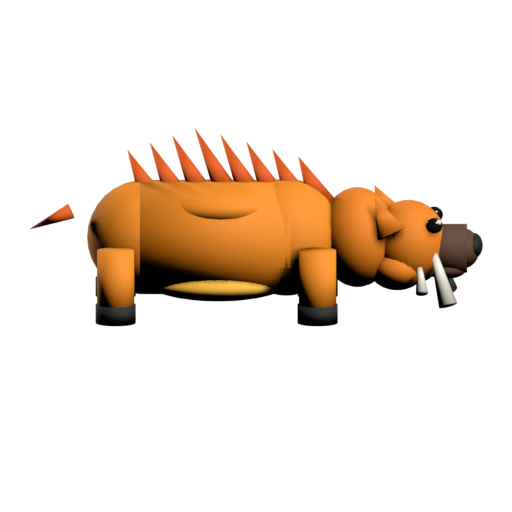
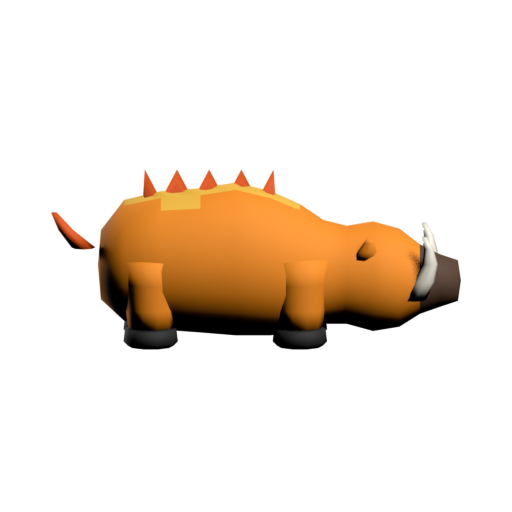
arte: jabali modelado por secciones (malla continua, cero esferas)
El anterior era un monton de esferas pegadas y se veia el armazon. Ahora la malla
se genera como tubos: el cuerpo es UN solo tubo continuo de la grupa al hocico con
radio y altura variables por seccion, y patas, colmillos, orejas, cresta, cola y
ojos son tubos que se estrechan (helper con tres ejes X/Z/Y).

- 1068 caras / 918 vertices, superficie continua sin costuras.
- Materiales por cara: hocico oscuro y panza clara asignados por posicion/normal.
- Cuerpo compactado (era un autobus) y patas mas gruesas.
- Se descarta la via cilindro+esferas: el loft por secciones da la silueta
  controlada y caras limpias.

Changed region(s): [[0.0625, 0.25, 0.9688, 0.6875]]

diff --git a/tools/boar_wow.py b/tools/boar_wow.py
@@ -1,7 +1,13 @@
-"""Jabalí estilo Warcraft v2 — arregla dos fallos de la v1:
-  1) el view transform AgX de Blender 4+ desaturaba el naranja (salía beige) -> Standard
-  2) el encuadre cortaba la cabeza -> se mide el render y se reajusta cámara y zoom
-Uso: blender --background --factory-startup --python tools/boar_wow.py
+"""Jabalí estilo Warcraft — modelado por SECCIONES (ni una esfera).
+
+La malla se genera como tubos: el CUERPO es un solo tubo continuo que va de la
+grupa al hocico (la altura y el radio cambian sección a sección), y las patas,
+colmillos, orejas, cresta y cola son tubos que se estrechan. Tres ejes:
+  eje='X' -> tubos horizontales (cuerpo, colmillos, cola)
+  eje='Z' -> tubos verticales (patas, cascos, orejas)
+  eje='Y' -> discos cortos hacia los lados (ojos)
+
+  blender --background --factory-startup --python tools/boar_wow.py
 """
 import bpy, math, os
 from mathutils import Vector
@@ -20,115 +26,184 @@ def mat(name, rgb, rough=0.75):
     return m
 
 
-# La referencia es naranja dorado saturado; los valores van en lineal, así que
-# el naranja "de verdad" pide el canal rojo casi a tope y el azul casi a cero.
 M_BODY = mat("body", (1.00, 0.30, 0.012))      # naranja dorado
-M_BELLY = mat("belly", (1.00, 0.52, 0.05))     # vientre más claro
-M_CREST = mat("crest", (0.85, 0.12, 0.004))    # cresta naranja-roja
-M_HEAD = mat("head", (0.95, 0.26, 0.01))
-M_SNOUT = mat("snout", (0.12, 0.055, 0.03))    # hocico marrón oscuro
-M_NOSE = mat("nose", (0.01, 0.01, 0.01))
+M_BELLY = mat("belly", (1.00, 0.56, 0.06))     # vientre claro
+M_CREST = mat("crest", (0.80, 0.10, 0.004))    # cresta naranja-roja
+M_SNOUT = mat("snout", (0.10, 0.05, 0.028))    # hocico oscuro
 M_TUSK = mat("tusk", (1.0, 0.95, 0.82), 0.3)   # colmillos marfil
 M_HOOF = mat("hoof", (0.012, 0.012, 0.012))
 M_EYE = mat("eye", (0.01, 0.008, 0.006), 0.15)
 
 
-def add(kind, name, loc, scale, rot=(0, 0, 0), material=None):
-    if kind == "sphere":
-        bpy.ops.mesh.primitive_uv_sphere_add(segments=28, ring_count=16, radius=0.5, location=loc)
-    elif kind == "cyl":
-        bpy.ops.mesh.primitive_cylinder_add(vertices=32, radius=0.5, depth=1, location=loc)
-    elif kind == "cone":
-        bpy.ops.mesh.primitive_cone_add(vertices=16, radius1=0.5, radius2=0.0, depth=1, location=loc)
-    ob = bpy.context.object
-    ob.name = name
-    ob.scale = scale
-    ob.rotation_euler = rot
-    if material:
-        ob.data.materials.append(material)
+def tubo(nombre, secciones, lados=14, materiales=None, eje='X'):
+    """Malla continua: une anillos consecutivos.
+
+    eje='X': secciones (x, y, z, ry, rz)  -> anillo en el plano YZ
+    eje='Z': secciones (x, y, z, rx, ry)  -> anillo en el plano XY
+    eje='Y': secciones (x, y, z, rx, rz)  -> anillo en el plano XZ
+    """
+    verts, caras = [], []
+    n = len(secciones)
+    for (a_, b_, c_, r1, r2) in secciones:
+        for k in range(lados):
+            ang = 2 * math.pi * k / lados
+            s, co = math.sin(ang), math.cos(ang)
+            if eje == 'X':
+                verts.append((a_, b_ + r1 * s, c_ + r2 * co))
+            elif eje == 'Z':
+                verts.append((a_ + r1 * co, b_ + r2 * s, c_))
+            else:  # 'Y'
+                verts.append((a_ + r1 * co, b_, c_ + r2 * s))
+    for i in range(n - 1):
+        for k in range(lados):
+            k2 = (k + 1) % lados
+            caras.append((i * lados + k, i * lados + k2,
+                          (i + 1) * lados + k2, (i + 1) * lados + k))
+    # puntas: un vértice en el centro de la primera y de la última sección
+    p0, p1 = secciones[0], secciones[-1]
+    d = 0.02
+    punta0 = {'X': (p0[0] - d, p0[1], p0[2]), 'Z': (p0[0], p0[1], p0[2] + d),
+              'Y': (p0[0], p0[1] - d, p0[2])}[eje]
+    punta1 = {'X': (p1[0] + d, p1[1], p1[2]), 'Z': (p1[0], p1[1], p1[2] - d),
+              'Y': (p1[0], p1[1] + d, p1[2])}[eje]
+    i0 = len(verts); verts.append(punta0)
+    i1 = len(verts); verts.append(punta1)
+    for k in range(lados):
+        k2 = (k + 1) % lados
+        caras.append((i0, k2, k))
+        caras.append((i1, (n - 1) * lados + k, (n - 1) * lados + k2))
+
+    me = bpy.data.meshes.new(nombre)
+    me.from_pydata(verts, [], caras)
+    me.validate()
+    me.update()
+    ob = bpy.data.objects.new(nombre, me)
+    bpy.context.collection.objects.link(ob)
+    for m in (materiales or []):
+        ob.data.materials.append(m)
+    for p in ob.data.polygons:
+        p.use_smooth = True
     return ob
 
 
-parts = []
+partes = []
 
-# --- cuerpo TUBULAR continuo: un cilindro con los dos extremos redondeados.
-# (con esferas sueltas quedaban costuras y se veía como un saco de bolas)
-parts.append(add("cyl", "body", (0.0, 0, 0.50), (0.80, 0.86, 1.06),
-                 rot=(0, math.radians(90), 0), material=M_BODY))
-parts.append(add("sphere", "front", (0.50, 0, 0.50), (0.80, 0.86, 0.82), material=M_BODY))
-parts.append(add("sphere", "rear", (-0.50, 0, 0.50), (0.80, 0.84, 0.80), material=M_BODY))
-parts.append(add("sphere", "hump", (0.04, 0, 0.74), (0.96, 0.80, 0.32), material=M_BODY))
-parts.append(add("sphere", "belly", (0.02, 0, 0.18), (1.00, 0.80, 0.24), material=M_BELLY))
+# ── CUERPO: un solo tubo de la grupa al hocico ──────────────────────────────
+# (x, y, z, ry, rz): la z arquea el lomo y baja hacia el hocico
+cuerpo_secs = [
+    (-0.86, 0, 0.52, 0.22, 0.24),   # grupa
+    (-0.70, 0, 0.55, 0.36, 0.42),   # anca
+    (-0.45, 0, 0.55, 0.42, 0.48),
+    (-0.18, 0, 0.55, 0.44, 0.50),   # lomo
+    (0.06, 0, 0.56, 0.45, 0.53),    # cruz (joroba)
+    (0.30, 0, 0.53, 0.43, 0.50),
+    (0.50, 0, 0.50, 0.38, 0.44),    # pecho
+    (0.66, 0, 0.47, 0.31, 0.36),    # cuello
+    (0.82, 0, 0.45, 0.30, 0.34),
+    (1.00, 0, 0.44, 0.34, 0.38),    # cabeza
+    (1.18, 0, 0.43, 0.31, 0.34),
+    (1.32, 0, 0.42, 0.23, 0.24),    # arranque del hocico
+    (1.46, 0, 0.41, 0.18, 0.18),
+    (1.58, 0, 0.41, 0.14, 0.14),    # nariz
+]
+cuerpo = tubo("cuerpo", cuerpo_secs, lados=20, materiales=[M_BODY, M_SNOUT, M_BELLY])
+for p in cuerpo.data.polygons:
+    p.material_index = 0
+    if p.center.x > 1.30:                       # hocico oscuro
+        p.material_index = 1
+    elif p.center.x < 0.55 and p.normal.z < -0.86:   # solo la panza, apenas visible
+        p.material_index = 2
+partes.append(cuerpo)
 
-# --- cresta erizada: púas grandes y separadas, el rasgo que más lo identifica
-for i in range(8):
-    t = -0.52 + i * 0.17
-    alto = 0.62 - abs(t) * 0.34
-    parts.append(add("cone", f"crest{i}", (t, 0, 0.72 + alto * 0.46), (0.20, 0.13, alto),
-                     rot=(0, math.radians(-26), 0), material=M_CREST))
+# ── CRESTA: tubo fino sobre el lomo con radios alternos (los "dientes") ────
+cresta_secs = []
+i = 0
+x = -0.56
+while x <= 0.34:
+    pico = 0.32 if i % 2 == 0 else 0.11
+    cresta_secs.append((x, 0, 0.86, 0.07, pico))
+    x += 0.11
+    i += 1
+partes.append(tubo("cresta", cresta_secs, lados=8, materiales=[M_CREST]))
 
-# --- cuello y cabeza, claramente diferenciados del cuerpo
-parts.append(add("sphere", "neck", (1.00, 0, 0.50), (0.54, 0.72, 0.70), material=M_HEAD))
-parts.append(add("sphere", "head", (1.36, 0, 0.46), (0.54, 0.62, 0.60), material=M_HEAD))
-parts.append(add("sphere", "cheek", (1.28, 0, 0.30), (0.42, 0.64, 0.34), material=M_HEAD))
+# ── PATAS verticales + cascos ──────────────────────────────────────────────
+for px in (0.50, -0.52):
+    for py in (0.24, -0.24):
+        partes.append(tubo(f"pata{px}{py}", [
+            (px, py, 0.60, 0.21, 0.20),      # dentro del tronco
+            (px, py, 0.44, 0.19, 0.19),
+            (px, py, 0.26, 0.17, 0.17),
+            (px, py, 0.13, 0.155, 0.155),
+        ], lados=10, materiales=[M_BODY], eje='Z'))
+        partes.append(tubo(f"casco{px}{py}", [
+            (px, py, 0.12, 0.175, 0.175),
+            (px, py, 0.03, 0.185, 0.185),
+            (px, py, 0.00, 0.155, 0.155),
+        ], lados=10, materiales=[M_HOOF], eje='Z'))
 
-# --- hocico largo y oscuro, con nariz negra y mandíbula
-parts.append(add("cyl", "snout", (1.60, 0, 0.42), (0.34, 0.36, 0.34),
-                 rot=(0, math.radians(90), 0), material=M_SNOUT))
-parts.append(add("sphere", "snouttip", (1.74, 0, 0.42), (0.24, 0.34, 0.28), material=M_SNOUT))
-parts.append(add("sphere", "nose", (1.82, 0, 0.44), (0.12, 0.26, 0.17), material=M_NOSE))
-parts.append(add("sphere", "jaw", (1.62, 0, 0.28), (0.30, 0.28, 0.15), material=M_SNOUT))
+# ── COLMILLOS: suben curvando hacia fuera ──────────────────────────────────
+for s in (1, -1):
+    partes.append(tubo(f"colmillo{s}", [
+        (1.28, 0.19 * s, 0.31, 0.085, 0.085),
+        (1.35, 0.22 * s, 0.44, 0.070, 0.070),
+        (1.39, 0.25 * s, 0.57, 0.052, 0.052),
+        (1.38, 0.27 * s, 0.68, 0.032, 0.032),
+        (1.35, 0.28 * s, 0.76, 0.015, 0.015),
+    ], lados=8, materiales=[M_TUSK], eje='Z'))
 
-# --- ojos pequeños y juntos con brillo
+# ── OREJAS: pequeñas, aplanadas y hacia atrás ──────────────────────────────
 for s_ in (1, -1):
-    parts.append(add("sphere", f"eye{s_}", (1.54, 0.23 * s_, 0.62), (0.12, 0.10, 0.11), material=M_EYE))
-    parts.append(add("sphere", f"shine{s_}", (1.57, 0.25 * s_, 0.645), (0.042, 0.042, 0.042), material=M_TUSK))
+    partes.append(tubo(f"oreja{s_}", [
+        (0.94, 0.24 * s_, 0.58, 0.085, 0.05),
+        (0.96, 0.27 * s_, 0.66, 0.065, 0.04),
+        (0.97, 0.29 * s_, 0.72, 0.035, 0.022),
+        (0.97, 0.30 * s_, 0.76, 0.012, 0.012),
+    ], lados=8, materiales=[M_BODY], eje='Z'))
 
-# --- orejas
-for s_ in (1, -1):
-    parts.append(add("cone", f"ear{s_}", (1.18, 0.30 * s_, 0.70), (0.22, 0.11, 0.28),
-                     rot=(math.radians(14 * s_), math.radians(-26), 0), material=M_HEAD))
+# ── COLA ───────────────────────────────────────────────────────────────────
+partes.append(tubo("cola", [
+    (-0.98, 0, 0.64, 0.08, 0.08),
+    (-1.10, 0, 0.76, 0.05, 0.05),
+    (-1.18, 0, 0.88, 0.02, 0.02),
+], lados=8, materiales=[M_CREST], eje='Z'))
 
-# --- colmillos grandes curvados hacia arriba y afuera
-for s_ in (1, -1):
-    parts.append(add("cone", f"tuskA{s_}", (1.56, 0.22 * s_, 0.34), (0.13, 0.13, 0.60),
-                     rot=(math.radians(20 * s_), math.radians(-16), 0), material=M_TUSK))
-    parts.append(add("cone", f"tuskB{s_}", (1.44, 0.26 * s_, 0.30), (0.085, 0.085, 0.34),
-                     rot=(math.radians(34 * s_), math.radians(-6), 0), material=M_TUSK))
+# ── OJOS: discos que miran hacia los lados (eje Y), sin bolas ──────────────
+for s in (1, -1):
+    partes.append(tubo(f"ojo{s}", [
+        (1.08, 0.15 * s, 0.55, 0.085, 0.085),
+        (1.08, 0.26 * s, 0.55, 0.080, 0.080),
+    ], lados=12, materiales=[M_EYE], eje='Y'))
+    partes.append(tubo(f"brillo{s}", [
+        (1.095, 0.15 * s, 0.575, 0.028, 0.028),
+        (1.095, 0.27 * s, 0.575, 0.026, 0.026),
+    ], lados=8, materiales=[M_TUSK], eje='Y'))
 
-# --- cuatro patas cortas y gruesas, bien separadas, con cascos negros
-for x in (0.72, -0.70):
-    for y in (0.56, -0.56):
-        parts.append(add("cyl", f"leg{x}{y}", (x, y, 0.25), (0.26, 0.26, 0.50), material=M_BODY))
-        parts.append(add("cyl", f"hoof{x}{y}", (x, y, 0.05), (0.28, 0.28, 0.13), material=M_HOOF))
-
-# --- rabo tieso
-parts.append(add("cone", "tail", (-1.16, 0, 0.62), (0.11, 0.11, 0.32),
-                 rot=(0, math.radians(-114), 0), material=M_CREST))
-
-for ob in parts:
+# ── unir, suavizar, centrar ────────────────────────────────────────────────
+bpy.ops.object.select_all(action='DESELECT')
+for ob in partes:
     ob.select_set(True)
-bpy.context.view_layer.objects.active = parts[0]
+bpy.context.view_layer.objects.active = partes[0]
 bpy.ops.object.join()
 boar = bpy.context.object
 boar.name = "BoarWow"
 bpy.ops.object.shade_smooth()
 
-# centrar la malla en el origen
 bpy.context.view_layer.update()
 co = [v.co.copy() for v in boar.data.vertices]
-cx = (min(v.x for v in co) + max(v.x for v in co)) / 2
-cy = (min(v.y for v in co) + max(v.y for v in co)) / 2
-cz = (min(v.z for v in co) + max(v.z for v in co)) / 2
+c = Vector(((min(v.x for v in co) + max(v.x for v in co)) / 2,
+            (min(v.y for v in co) + max(v.y for v in co)) / 2,
+            (min(v.z for v in co) + max(v.z for v in co)) / 2))
 for v in boar.data.vertices:
-    v.co -= Vector((cx, cy, cz))
+    v.co -= c
 boar.data.update()
 bpy.context.view_layer.update()
 co = [v.co for v in boar.data.vertices]
-print(f"SIZE model: {max(v.x for v in co) - min(v.x for v in co):.2f} x "
-      f"{max(v.y for v in co) - min(v.y for v in co):.2f}")
+print(f"SIZE: {max(v.x for v in co) - min(v.x for v in co):.2f} x "
+      f"{max(v.y for v in co) - min(v.y for v in co):.2f} x "
+      f"{max(v.z for v in co) - min(v.z for v in co):.2f} | "
+      f"caras: {len(boar.data.polygons)} | vértices: {len(boar.data.vertices)}")
 
-# ---- cámara 3/4 (el objetivo se mueve para centrar el bicho en el encuadre)
+# ── cámara, luces y encuadre ───────────────────────────────────────────────
 target = bpy.data.objects.new("Aim", None)
 bpy.context.collection.objects.link(target)
 cam_data = bpy.data.cameras.new("Cam")
@@ -136,7 +211,7 @@ cam_data.type = 'ORTHO'
 cam_data.ortho_scale = 3.2
 cam = bpy.data.objects.new("Cam", cam_data)
 bpy.context.collection.objects.link(cam)
-ELEV, DIST = math.radians(52), 6.0
+ELEV, DIST = math.radians(38), 7.0
 cam.location = (0.0, -DIST * math.cos(ELEV), DIST * math.sin(ELEV))
 trk = cam.constraints.new(type='TRACK_TO')
 trk.target = target
@@ -158,51 +233,38 @@ fill.rotation_euler = (math.radians(76), 0, math.radians(-140))
 
 sc = bpy.context.scene
 sc.render.engine = 'BLENDER_EEVEE'
-# CLAVE: sin esto Blender 4+ aplica AgX y el naranja sale beige
 sc.view_settings.view_transform = 'Standard'
 sc.view_settings.look = 'None'
 sc.render.film_transparent = True
-RES = 512
-sc.render.resolution_x = RES
-sc.render.resolution_y = RES
+sc.render.resolution_x = sc.render.resolution_y = 512
 sc.render.image_settings.file_format = 'PNG'
 sc.render.image_settings.color_mode = 'RGBA'
 
-def encuadrar(margen=0.92, pasadas=2):
-    """Coloca cámara y zoom midiendo la proyección real del objeto.
 
-    Sin PIL: se proyectan las esquinas de la caja envolvente con
-    world_to_camera_view, que ya devuelve coordenadas normalizadas del encuadre.
-    """
+def encuadrar(margen=0.93, pasadas=2):
     from bpy_extras.object_utils import world_to_camera_view
     for _ in range(pasadas):
         pts = [world_to_camera_view(sc, cam, boar.matrix_world @ Vector(c))
                for c in boar.bound_box]
         minx, maxx = min(p.x for p in pts), max(p.x for p in pts)
         miny, maxy = min(p.y for p in pts), max(p.y for p in pts)
-        ancho, alto = maxx - minx, maxy - miny
-        factor = max(ancho, alto) / margen
-        cam_data.ortho_scale *= factor
-        # el objetivo se mueve hacia donde está el bicho para centrarlo
+        cam_data.ortho_scale *= max(maxx - minx, maxy - miny) / margen
         dx = ((minx + maxx) / 2 - 0.5) * cam_data.ortho_scale
         dy = ((miny + maxy) / 2 - 0.5) * cam_data.ortho_scale
-        derecha = cam.matrix_world.to_3x3().col[0]
-        arriba = cam.matrix_world.to_3x3().col[1]
-        target.location = target.location + derecha * dx + arriba * dy
+        target.location = (target.location
+                           + cam.matrix_world.to_3x3().col[0] * dx
+                           + cam.matrix_world.to_3x3().col[1] * dy)
         bpy.context.view_layer.update()
-    print(f"encuadre: ocupa {ancho:.2f}x{alto:.2f} del marco -> ortho {cam_data.ortho_scale:.2f}")
 
 
 encuadrar()
-final = os.path.join(OUT, "boar_wow.png")
-sc.render.filepath = final
+sc.render.filepath = os.path.join(OUT, "boar_wow.png")
 bpy.ops.render.render(write_still=True)
-print("RENDER OK ->", final)
+print("RENDER OK ->", sc.render.filepath)
 
-# vista lateral (para revisar la silueta sin la perspectiva cenital)
-ELEV2 = math.radians(12)
+ELEV2 = math.radians(10)
 cam.location = (0.0, -DIST * math.cos(ELEV2), DIST * math.sin(ELEV2))
-cam_data.ortho_scale = 3.6
+cam_data.ortho_scale = 3.5
 bpy.context.view_layer.update()
 sc.render.filepath = os.path.join(OUT, "boar_lado.png")
 bpy.ops.render.render(write_still=True)
